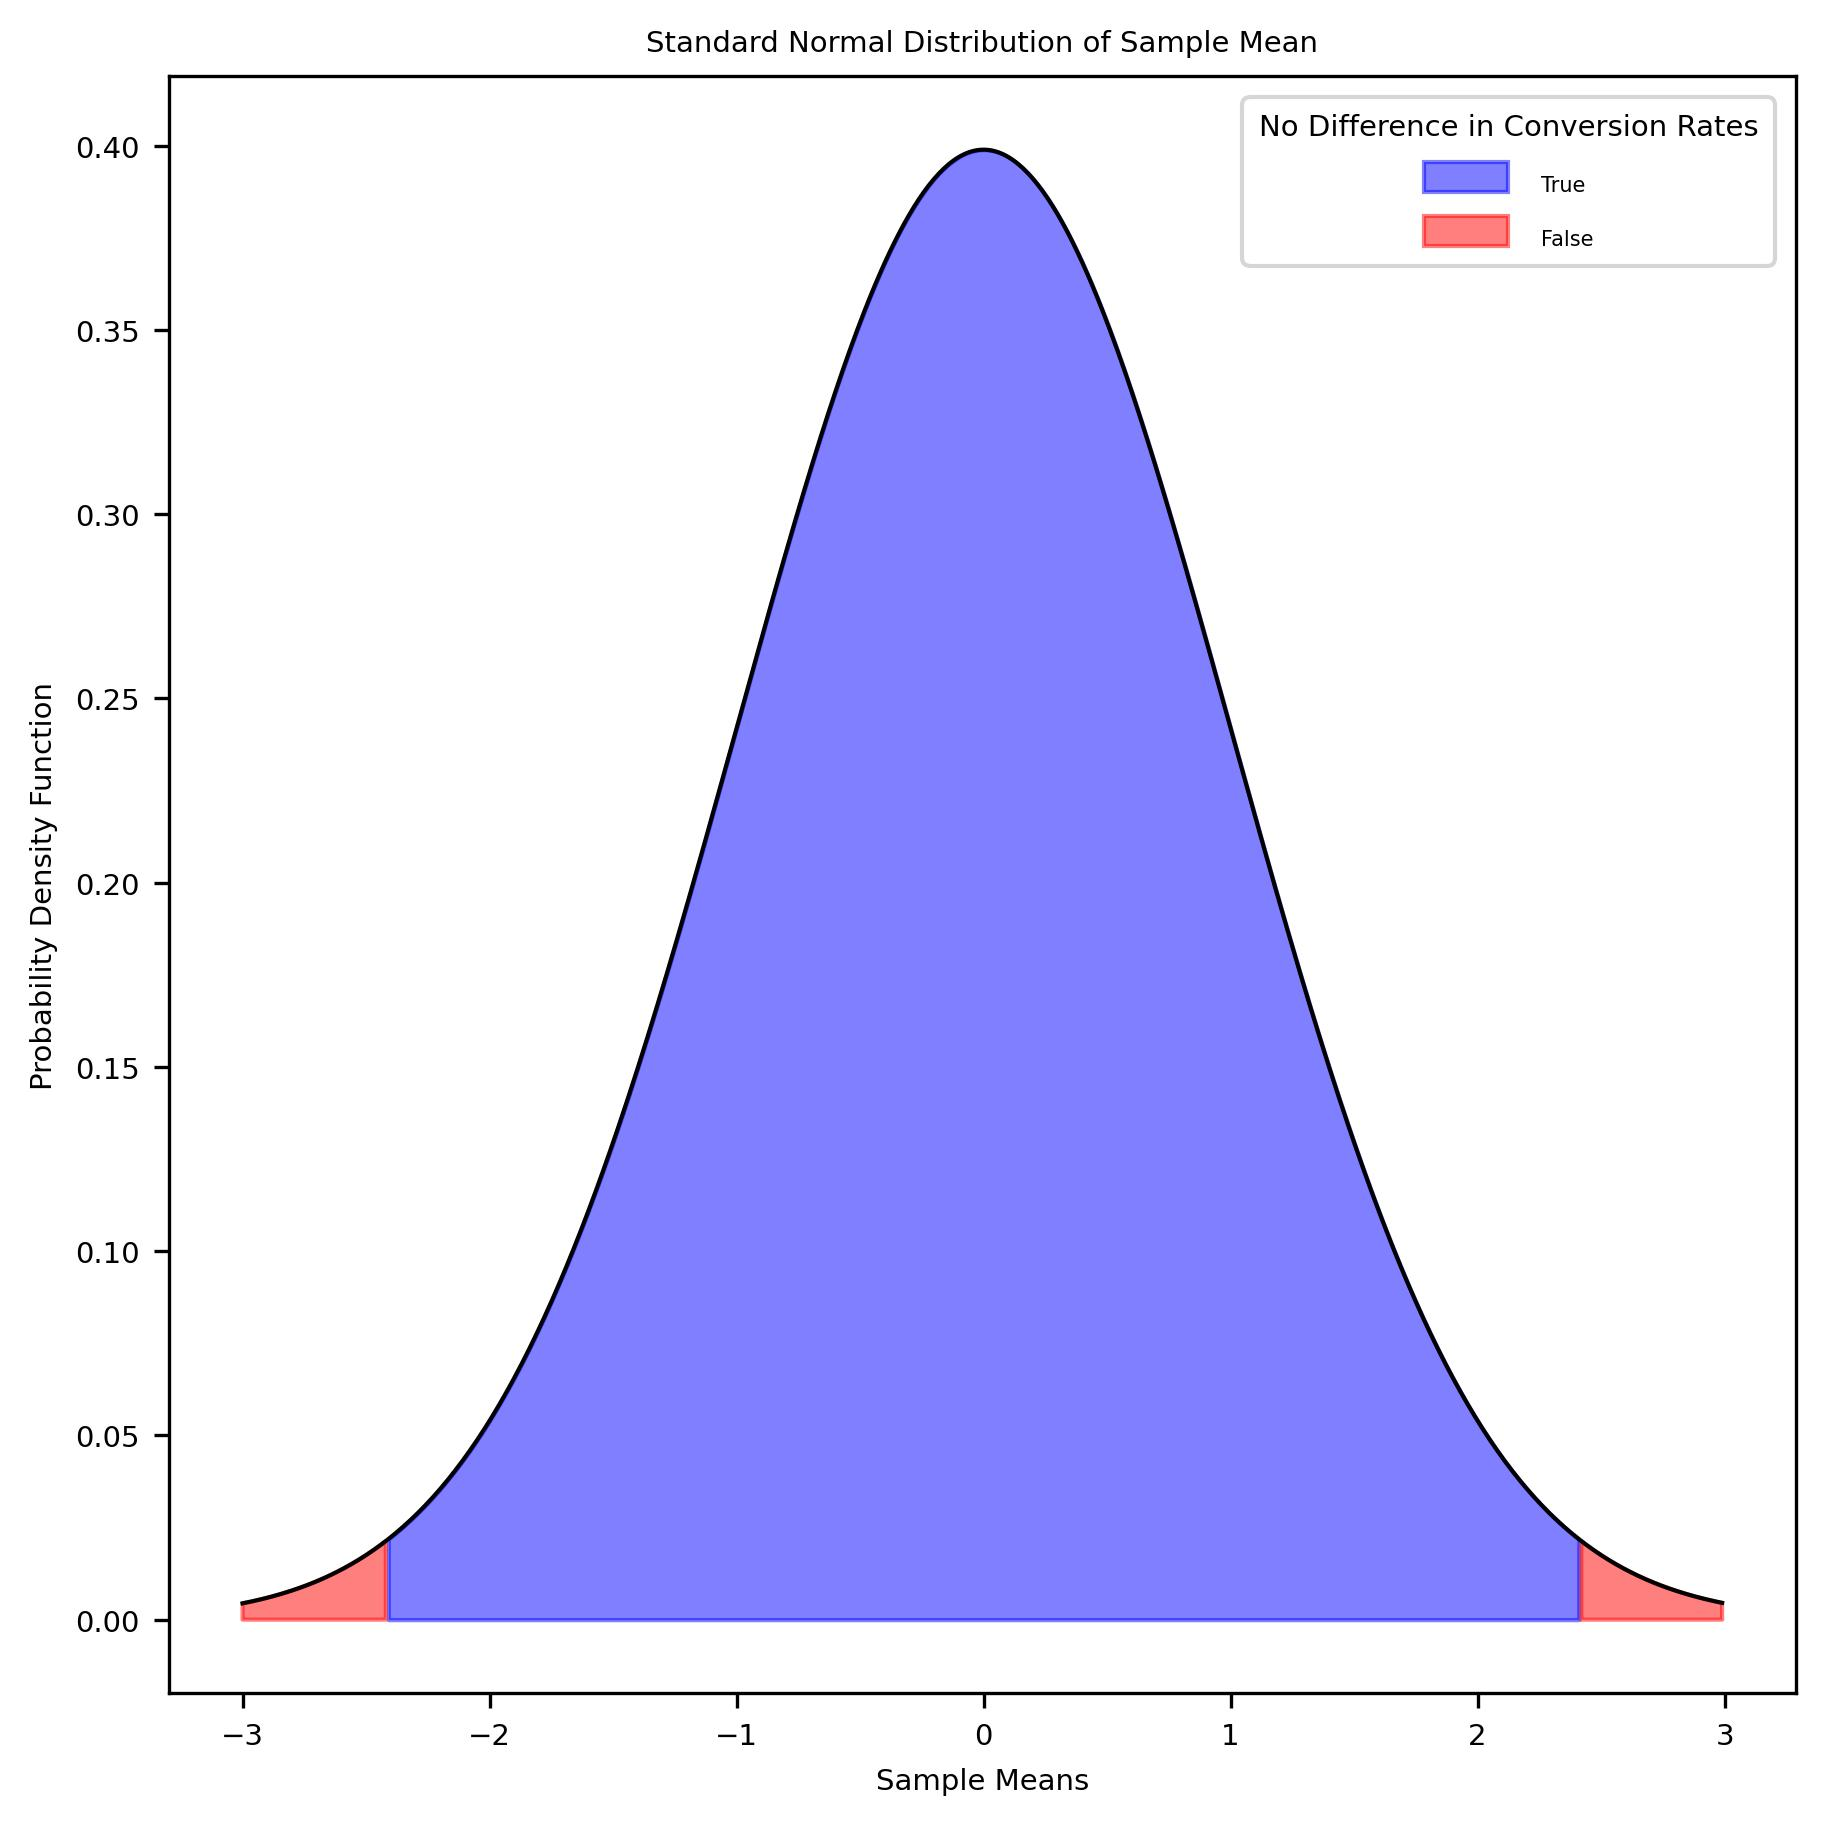
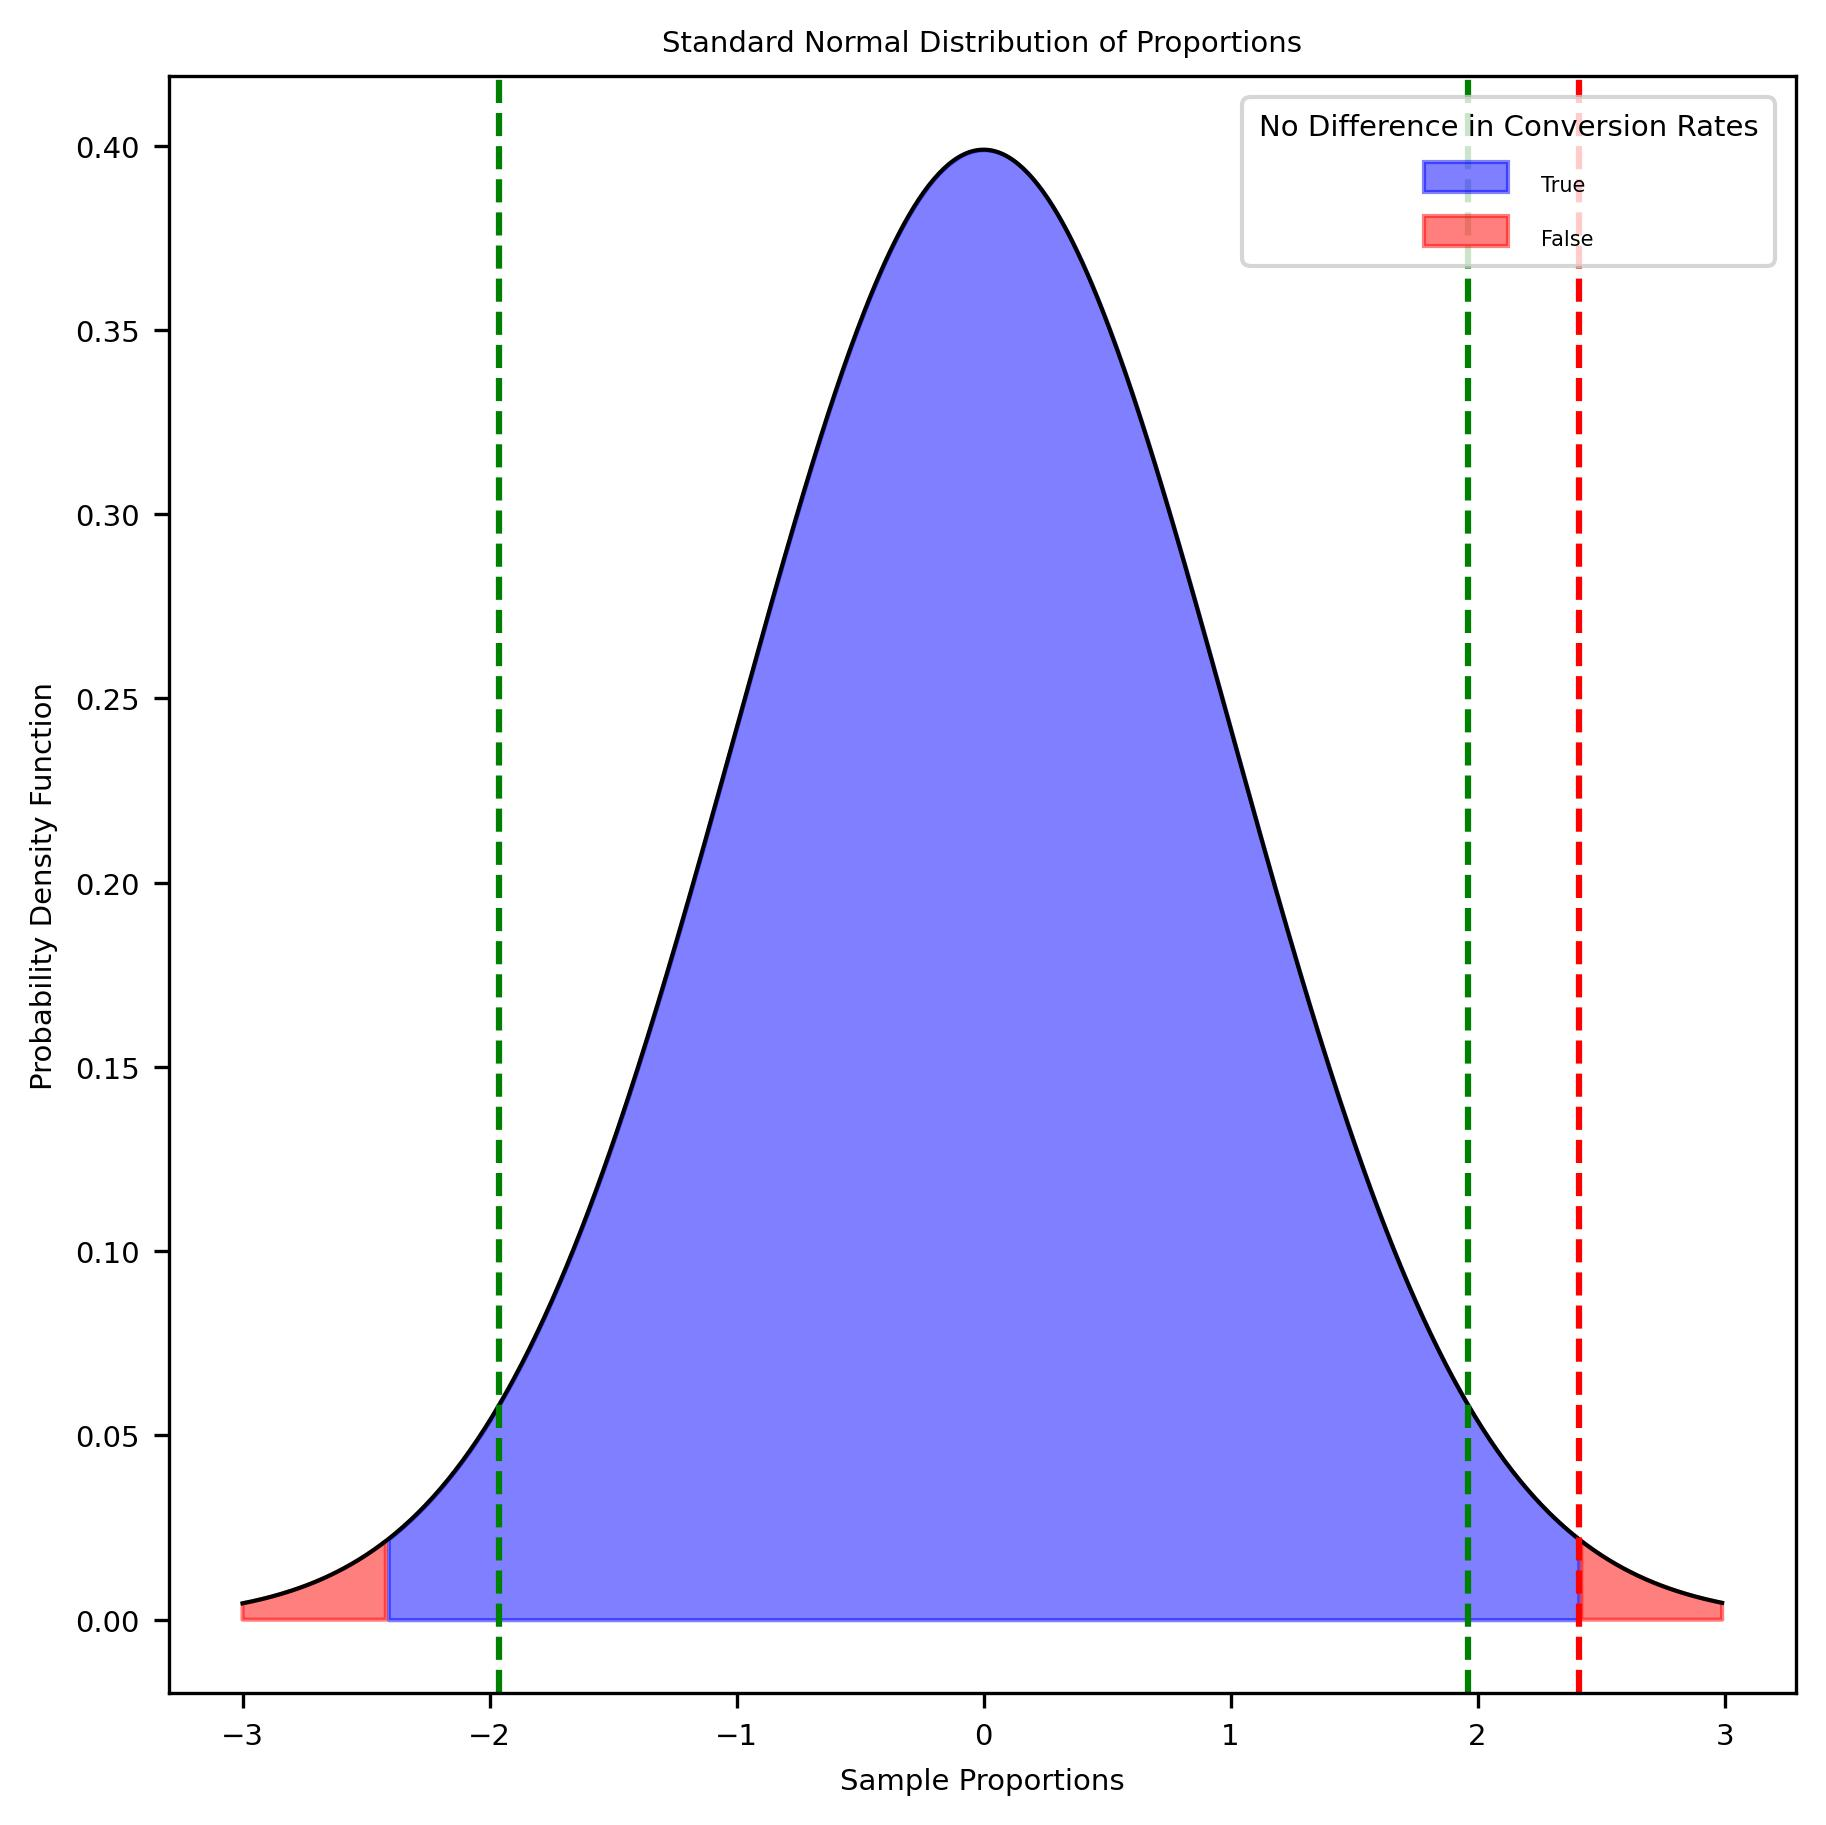
amending titles for plots

diff --git a/Model/frequentist_model.py b/Model/frequentist_model.py
@@ -111,15 +111,16 @@ def standard_normal(x_bar_norm, legend_title):
   plt.axvline(1.96, color='green', linestyle='--')
   plt.axvline(-1.96, color='green', linestyle='--')
   plt.axvline(x_bar_norm, color='red', linestyle='--')
-  plt.xlabel('Sample Means', fontsize=7)
+  plt.xlabel('Sample Proportions', fontsize=7)
   plt.ylabel('Probability Density Function', fontsize=7)
-  plt.title('Standard Normal Distribution of Sample Mean', fontsize=7)
+  plt.title('Standard Normal Distribution of Proportions', fontsize=7)
   legend = plt.legend(loc=1, title=legend_title)
   legend.get_title().set_fontsize(7)
   for label in legend.get_texts():  
     label.set_fontsize(5)
   plt.xticks(fontsize=7)
   plt.yticks(fontsize=7)
+  plt.savefig("standard_normal.jpg", format="jpg", dpi=300, bbox_inches="tight")
   plt.show()
 
 def proportions(successes_A, successes_B, trials_A, trials_B, mode='two_sided'):
@@ -174,7 +175,7 @@ def confidence_interval_plot(proportion_A, proportion_B, sample_A, sample_B, alp
   plt.axvline(proportion_B + se_B * z_score, color='blue', linestyle='--')
   plt.axvline(proportion_B - se_B * z_score, color='blue', linestyle='--')
     
-  plt.xlabel('Sample Mean Distribution of Each Variant', fontsize = 7)
+  plt.xlabel('Proportion Distribution of Each Variant', fontsize = 7)
   plt.ylabel('Probability Density Function', fontsize = 7)
   plt.title(f'Confidence Intervals at alpha={alpha}', fontsize = 7)
   legend = plt.legend(loc=1)
@@ -183,7 +184,7 @@ def confidence_interval_plot(proportion_A, proportion_B, sample_A, sample_B, alp
     label.set_fontsize(5)
   plt.xticks(fontsize=7)
   plt.yticks(fontsize=7)
-  plt.grid(True)
+  plt.savefig("ci.jpg", format="jpg", dpi=300, bbox_inches="tight")
   plt.show()
   return ci_A, ci_B
 
